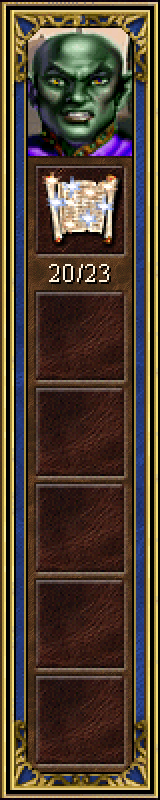
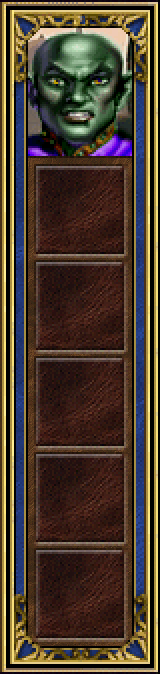
Scouted area to the right, i18n for mass effect. hero-info become shorter

diff --git a/xsl/html/body/main/panel-info/panel-info.js b/xsl/html/body/main/panel-info/panel-info.js
@@ -50,12 +50,6 @@
 					descrExt = mustacheRender(mData['descr-ext'], mData);
 				}
 
-				if (mData.mass) {
-					// TODO: i18n!!!
-					var massEffectText = 'Применяется ко всем отрядам.';
-					descrExt = descrExt ? descrExt + ' ' + massEffectText : massEffectText;
-				}
-
 				return descrExt ? descr + ' ' + descrExt : descr;
 			},
 			iamTitle: function () {

diff --git a/xsl/html/body/main/hero-info/hero-info.homm3.css b/xsl/html/body/main/hero-info/hero-info.homm3.css
@@ -1,5 +1,5 @@
 [iam-hero-info] {
-	height: 800px;
+	height: 674px;
 	left: 10px;
 	top: 10px;
 	width: 160px;
@@ -17,7 +17,7 @@
 }
 
 [iam-hero-skill]:first-child {
-	margin-top: 292px;
+	margin-top: 166px;
 }
 
 [iam-hero-skill ~= "none"] {

diff --git a/xsl/html/body/main/main.homm3.css b/xsl/html/body/main/main.homm3.css
@@ -12,6 +12,7 @@
 
 [iam-app] {
 	background-repeat: no-repeat;
+	background-position: right;
 	position: relative;
 }
 
